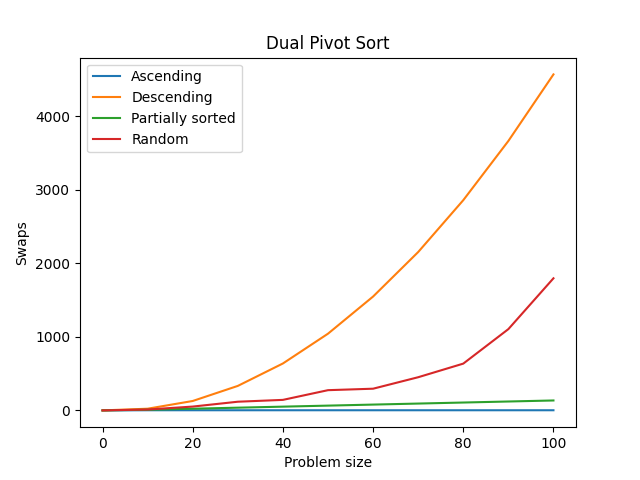
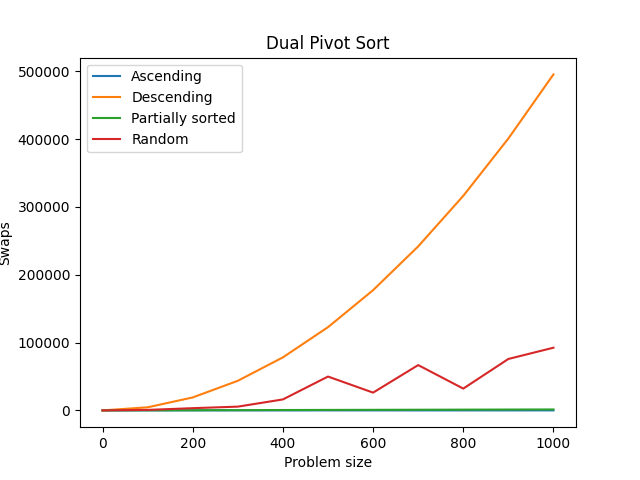
commit

diff --git a/Week_10/main.cpp b/Week_10/main.cpp
@@ -9,6 +9,7 @@
 
 #include <vector>
 #include <iostream>
+#include <algorithm>
 #include "QuickSortTest.h"
 #include "LazyPivotSort.h"
 #include "MedianOf3Sort.h"
@@ -23,10 +24,32 @@ vector<int> mergeSort(vector<int> avector);
 void merge(vector<int> &avector, vector<int> left, vector<int> right);
 void printl(vector<int> avector);
 
+// Global variables
+const size_t SIZE = 1000;
+const size_t INCR = 100;
+int currentDepth = 0;  // Tracks the current recursion depth
+int maxDepth = 0;      // Tracks the maximum recursion depth observed
+
 int main(){
-	int worst_case[] = {10, 9, 8, 7, 6, 5, 4, 3, 2, 1};
-	int arr[] = {54, 26, 93, 17, 77, 31, 44, 55, 47, 5,};
-	vector<int> avector(arr, arr + sizeof(arr) / sizeof(arr[0]));
+	
+	// QUICK SORT TESTING
+	vector<QuickSortTest*> tests{ // Create vector of sort tests
+		new LazyPivotSort(),
+		new MedianOf3Sort(),
+		new TukeysNintherSort(),
+		new CutoffInsertionSort(),
+		new DualPivotSort()
+	};
+
+	for (auto test : tests){ // Test all sorting algorithms
+		test->test(SIZE, INCR);  // Call test on each algorithm
+		cout << "---" << endl;
+	}
+
+    for (auto test : tests) delete test; // Clean up memory
+	
+
+	// RECURSION SORT TESTING
 	vector<int> vec = {
         42, 17, 89, 3, 56, 42, 91, 17, 24, 68,
         75, 3, 89, 50, 12, 42, 91, 63, 24, 75,
@@ -40,33 +63,15 @@ int main(){
         68, 8, 56, 31, 17, 89, 91, 24, 42, 75
     };
 
-	const size_t SIZE = 100;
-
-	// Create vector of sort tests
-	vector<QuickSortTest*> tests {
-		new LazyPivotSort(),
-		new MedianOf3Sort(),
-		new TukeysNintherSort(),
-		new CutoffInsertionSort(),
-		new DualPivotSort()
-	};
-	
-	/*
-	DualPivotSort t;
-	printl(vec);
-	t.sort(vec, 0, vec.size() - 1);
-	printl(vec);
-	cout << "Swaps = " << t.getSwaps();
-	*/
-
-	// Test all algorithms
-	for (auto test : tests) {
-		test->test(100, 10);  // Call test() on each algorithm
-		cout << "---" << endl;
-	}
-
-    for (auto test : tests) delete test; // Clean up memory
-	return 0;
+	vector<int> data = {5, 2, 9, 1, 5, 6, 3, 8, 7, 4};
+    vector<int> sortedData = mergeSort(data);
+    cout << "Sorted data: ";
+    for (int num : sortedData) {
+        cout << num << " ";
+    }
+    cout << endl;
+    cout << "Maximum recursion depth: " << maxDepth << endl;
+    return 0;
 }
 
 // Utiltiy function for testing
@@ -82,6 +87,9 @@ void printl(vector<int> avector){
 // Note: this implementation uses auxiliary memory
 // Each recursive call creates two new vectors of size n/2
 vector<int> mergeSort(vector<int> avector) {
+    currentDepth++;  // Increment current depth
+	maxDepth = max(maxDepth, currentDepth);  // Update max depth
+
 	int size = avector.size();				// get vector size
 	if (size>1) {							// base case, range of 1 is sorted
 		int mid = size/2;					// calculate mid point
@@ -97,6 +105,7 @@ vector<int> mergeSort(vector<int> avector) {
 		// merge sorted sub vectors back into original vector
 		merge(avector, lefthalf, righthalf);
 	}
+	currentDepth--;  // Decrement current depth as recursion unwinds
 	return avector;
 }
 
